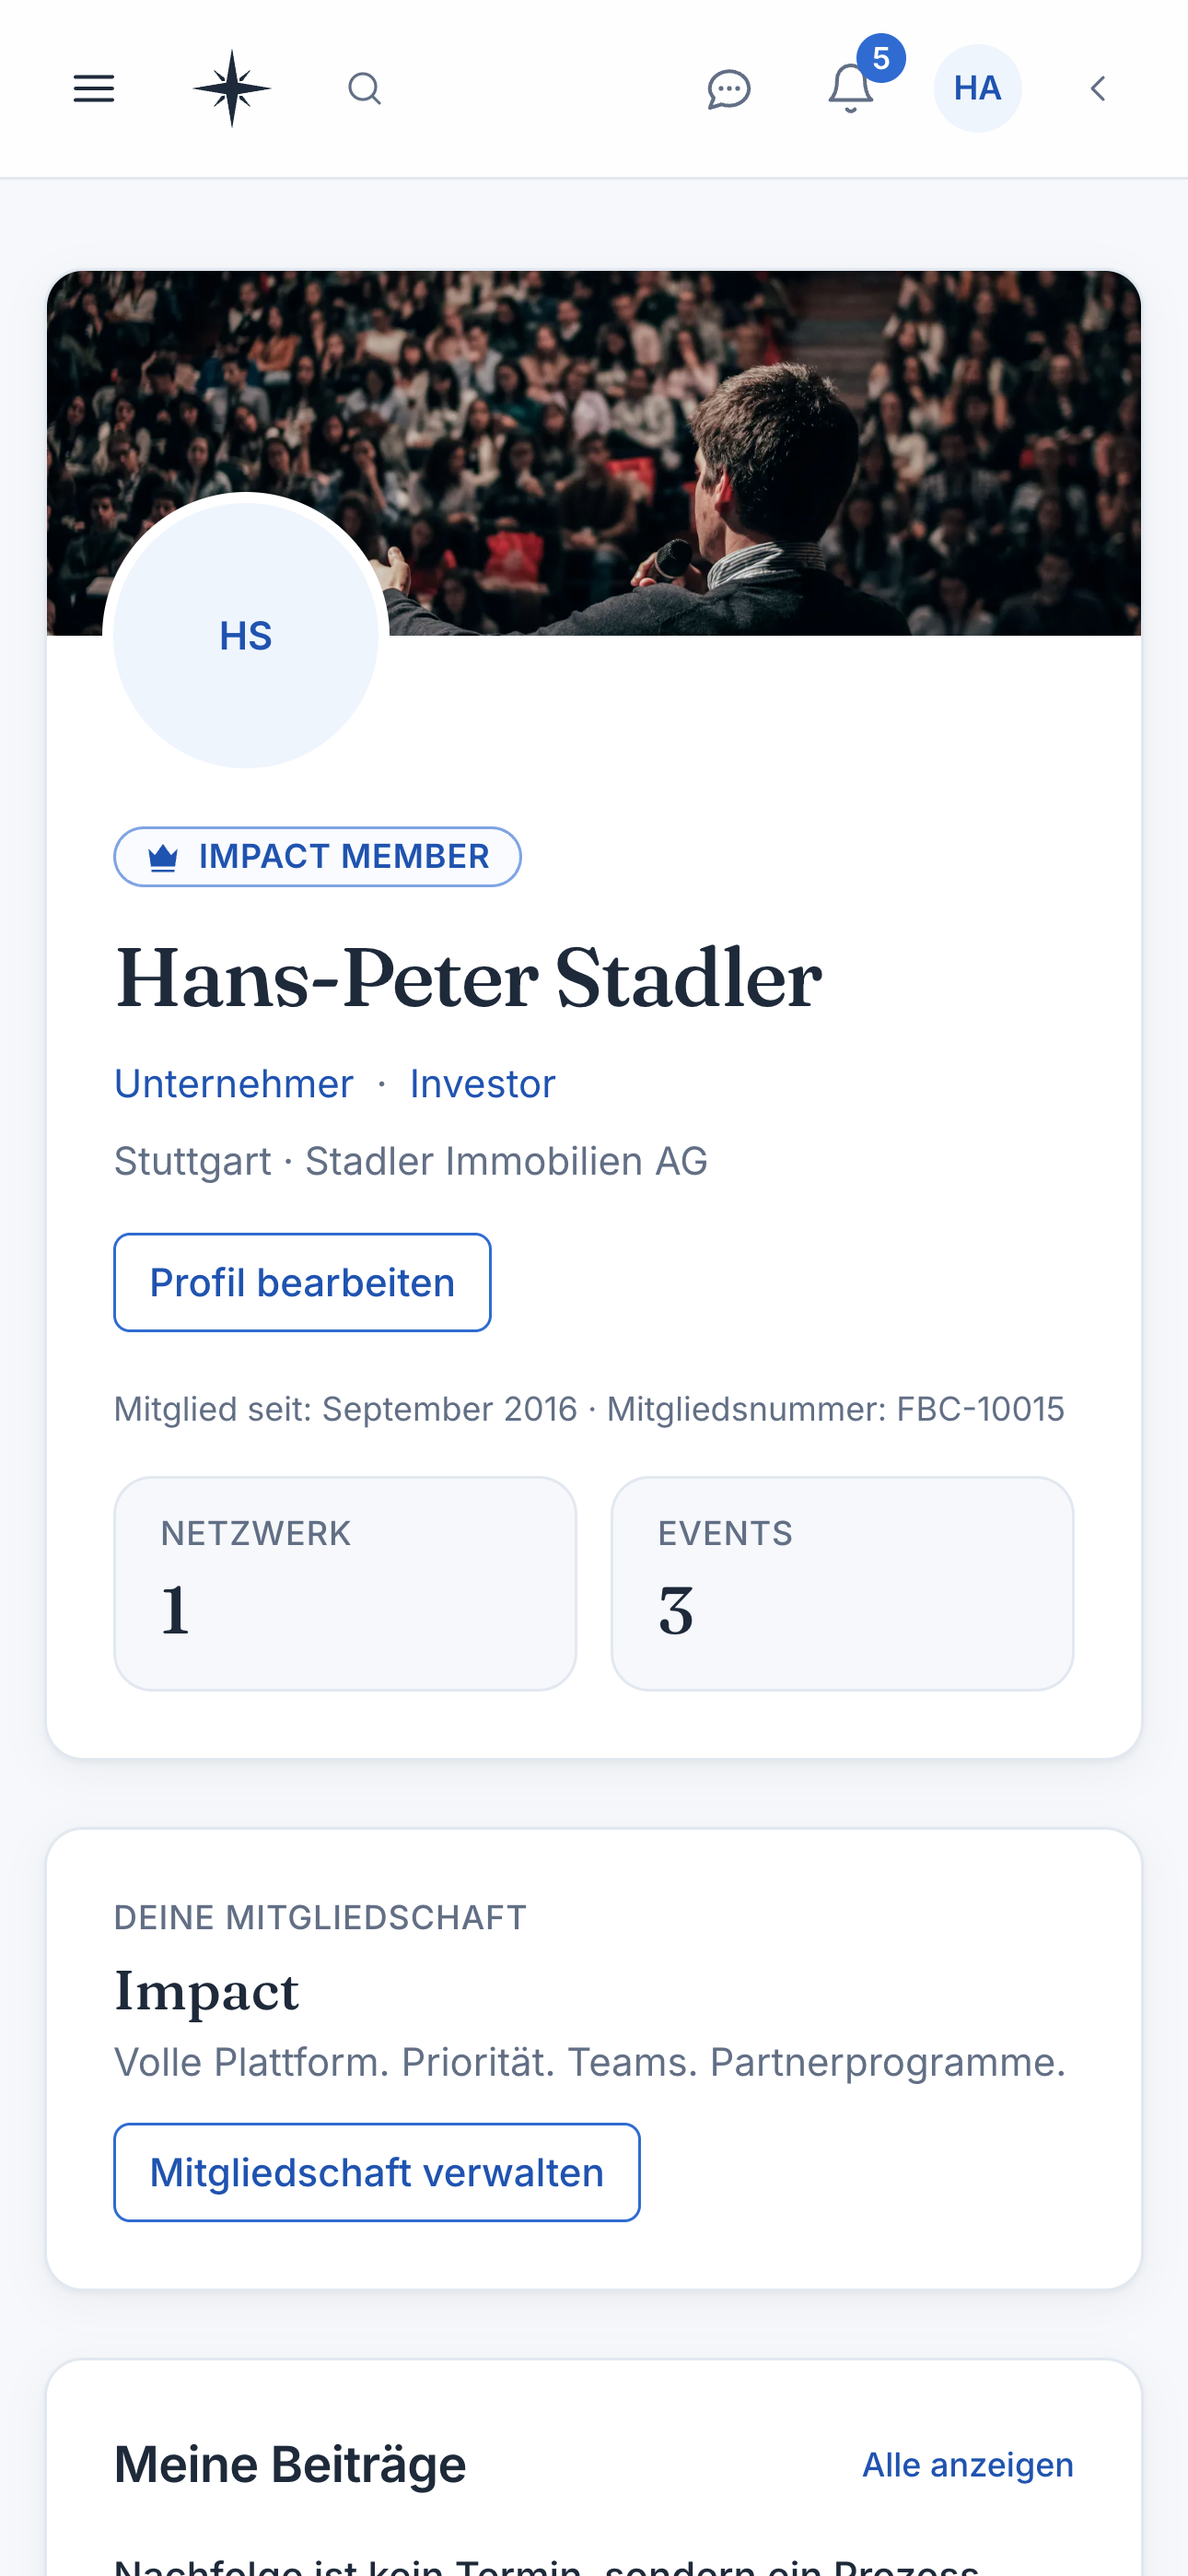
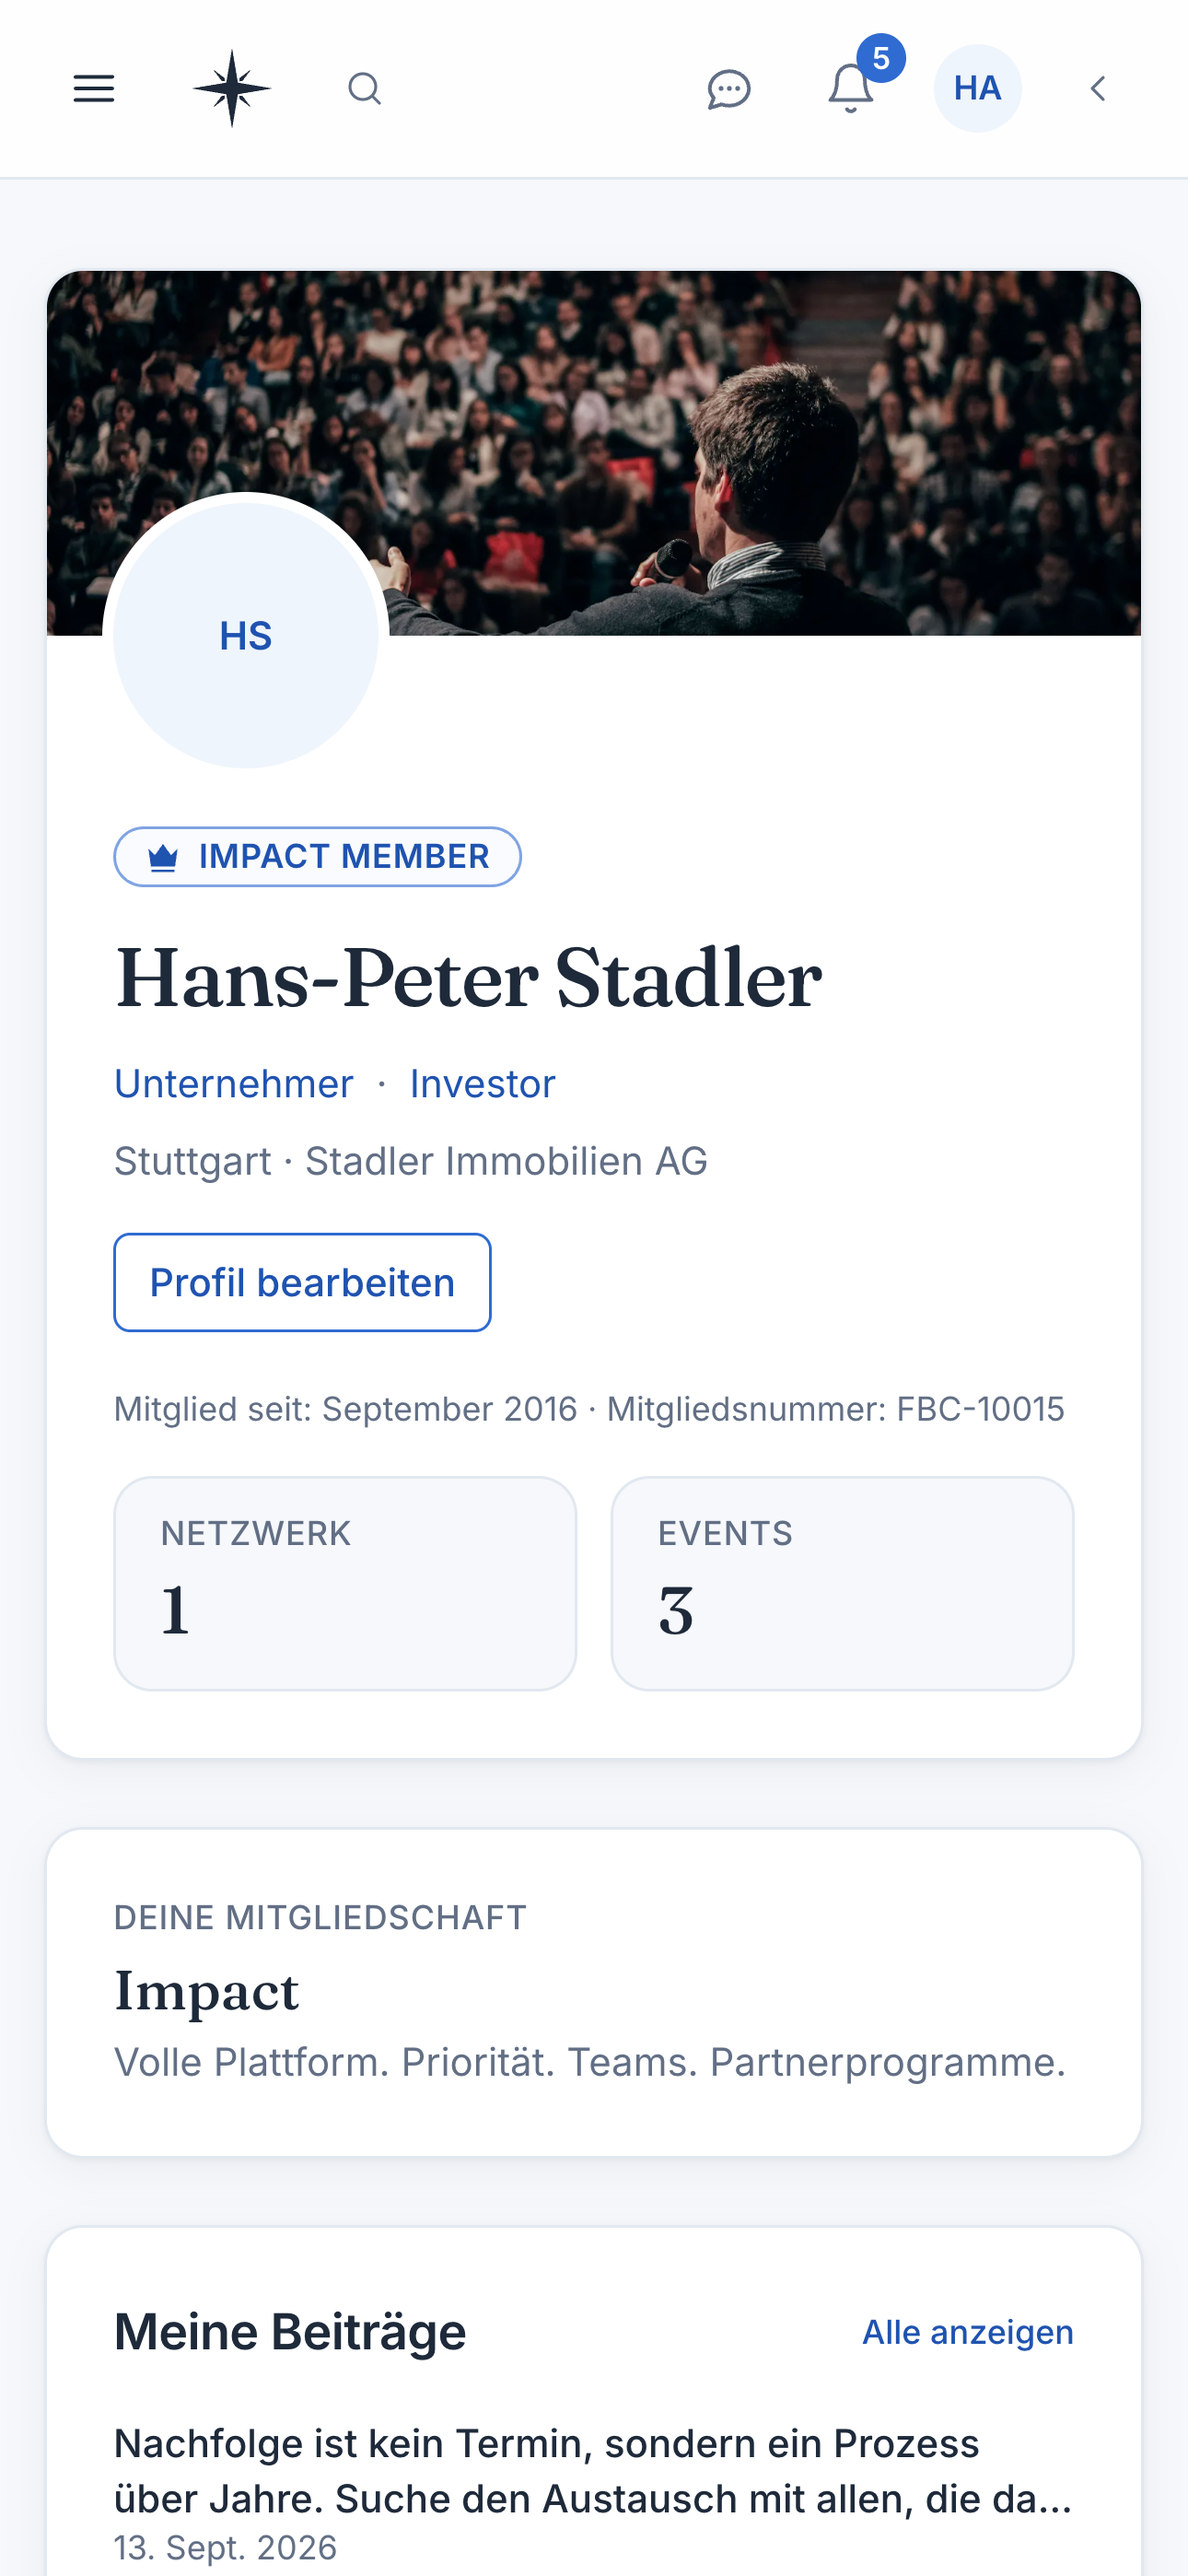
docs: Profil-Screenshot ohne Kaufknopf neu aufgenommen (AGE-907) (#426)
Die Fassung vom 13.09. zeigte „Mitgliedschaft verwalten" — einen Kaufeinstieg,
den PR #419 (`935b987`) entfernt hat. Das Bild waere damit doppelt falsch an
Apple gegangen: als veraltete Oberflaeche und als Beleg fuer genau die
Richtlinie 3.1.1, die #419 entschaerfen sollte.

Aufgenommen gegen den lokalen Stack nach dem Rezept in
`docs/store-assets/README.md`, mit denselben Demo-Daten wie am 13.09.

GEAENDERT HAT SICH NUR EINE DATEI. Der Play-Ausschnitt (360x640) endet oberhalb
der Mitgliedschaftskarte, dort stand der Knopf also nie —
`android-4-profil.png` kam **byte-identisch** aus dem neuen Lauf zurueck
(`69a634d1…` vorher wie nachher). Das belegt nebenbei, dass die Aufnahme
deterministisch ist und die Demo-Daten unveraendert sind.

Die anderen acht Bilder bleiben bewusst vom 13.09.: Der lokale Stack traegt
inzwischen 45 statt 14 Beitraege (Backfill aus AGE-905), ein neuer
Aktivitaets-Screenshot waere korrekt, aber als Store-Bild nicht repraesentativ.
Dass die vier uebrigen Bildschirme weiter gueltig sind, ist GEMESSEN:
`/aktivitaet`, `/mitglieder`, `/events` und `/chat` tragen im DOM weder einen
Link nach `/mitgliedschaft` noch eines der Kaufwoerter.

EINE FALLE, DIE NUR DER AUGENSCHEIN FINDET, jetzt im README: `cover_url` zeigt
auf `public/images/.sichtprobe/`, und das Verzeichnis wird nach jeder Aufnahme
geloescht (es liegt in `public/` und wuerde ausgeliefert). Der erste Lauf ergab
deshalb ein Profilbild mit kaputtem Bild-Symbol an der Stelle des Titelbilds.
[…]

Changed region(s): [[0.093, 0.809, 0.8992, 1.0], [0.5271, 0.809, 0.5581, 0.8401]]

diff --git a/docs/store-assets/README.md b/docs/store-assets/README.md
@@ -15,20 +15,34 @@ Je fünf Bildschirme: Aktivität (Feed) · Mitglieder (Verzeichnis) · Events ·
 Profil · Nachrichten. Beide Stores nehmen mindestens zwei, Apple bis zu zehn,
 Google bis zu acht.
 
-> ⚠ **Der Profil-Screenshot ist veraltet und muss vor der Einreichung neu
-> entstehen.** Er zeigt den Knopf „Mitgliedschaft verwalten", den es in der App
-> seit `935b987` (PR #419, AGE-907) nicht mehr gibt.
+> ✅ **Profil neu aufgenommen am 2026-09-25** (`ios-4-profil.png`,
+> `android-4-profil.png`). Die Fassung vom 13.09. zeigte den Knopf
+> „Mitgliedschaft verwalten", den PR #419 (`935b987`, AGE-907) entfernt hat —
+> ein Kaufeinstieg, den die App nicht mehr hat, unter genau der Richtlinie
+> 3.1.1, die #419 entschärfen sollte.
 >
-> Die Entscheidung zu Richtlinie 3.1.1 **ist gefallen**: Der Kaufweg ruht,
-> `/mitgliedschaft` leitet auf `/` um, und sieben Einstiege sind entfernt. Damit
-> hat sich die frühere Warnung („sollte dieses Bild nicht an Apple gehen")
-> erledigt — und in ihr Gegenteil verkehrt. Das Bild zeigt jetzt einen
-> Kaufeinstieg, den die App nicht mehr hat, und geht damit **doppelt** falsch an
-> Apple: als veraltete Oberfläche und als Beleg für genau die Richtlinie, die
-> #419 entschärft hat.
+> **Tatsächlich geändert hat sich nur `ios-4-profil.png`.** Der Play-Ausschnitt
+> (360 × 640) endet oberhalb der Mitgliedschaftskarte, dort stand der Knopf also
+> nie — `android-4-profil.png` kam **byte-identisch** aus dem neuen Lauf zurück
+> (`69a634d1…` vorher wie nachher). Das ist nebenbei der Beleg, dass die
+> Aufnahme deterministisch ist und die Demo-Daten unverändert sind.
 >
-> Das Aufnahmeskript unten erzeugt den Screenshot neu; die App unter ihm ist
-> bereits richtig. Es muss also nur jemand den Lauf wiederholen.
+> **Die anderen acht Bilder stammen weiter vom 13.09.** Das ist Absicht: Der
+> lokale Stack trägt inzwischen 45 statt 14 Beiträge (Backfill aus AGE-905), ein
+> neuer Aktivitäts-Screenshot wäre korrekt, aber als Store-Bild nicht
+> repräsentativ.
+>
+> Dass die anderen vier Bildschirme weiter gültig sind, ist **gemessen**, nicht
+> angenommen: `/aktivitaet`, `/mitglieder`, `/events` und `/chat` tragen im DOM
+> weder einen Link nach `/mitgliedschaft` noch eines der Kaufwörter.
+>
+> ⚠ **Falle beim Wiederholen: `cover_url` zeigt auf
+> `public/images/.sichtprobe/`, und das Verzeichnis wird nach jeder Aufnahme
+> gelöscht** (es liegt in `public/` und würde ausgeliefert). Der erste Lauf am
+> 25.09. ergab deshalb ein Profilbild mit **kaputtem Bild-Symbol** an der Stelle
+> des Titelbilds — sichtbar nur im Augenschein, kein Skript meldet es. Vor der
+> Aufnahme also erst die Zuschnitte wieder herstellen (Rezept unten), danach
+> wieder löschen.
 
 ## Warum die Bilder keine echten Personen zeigen
 
